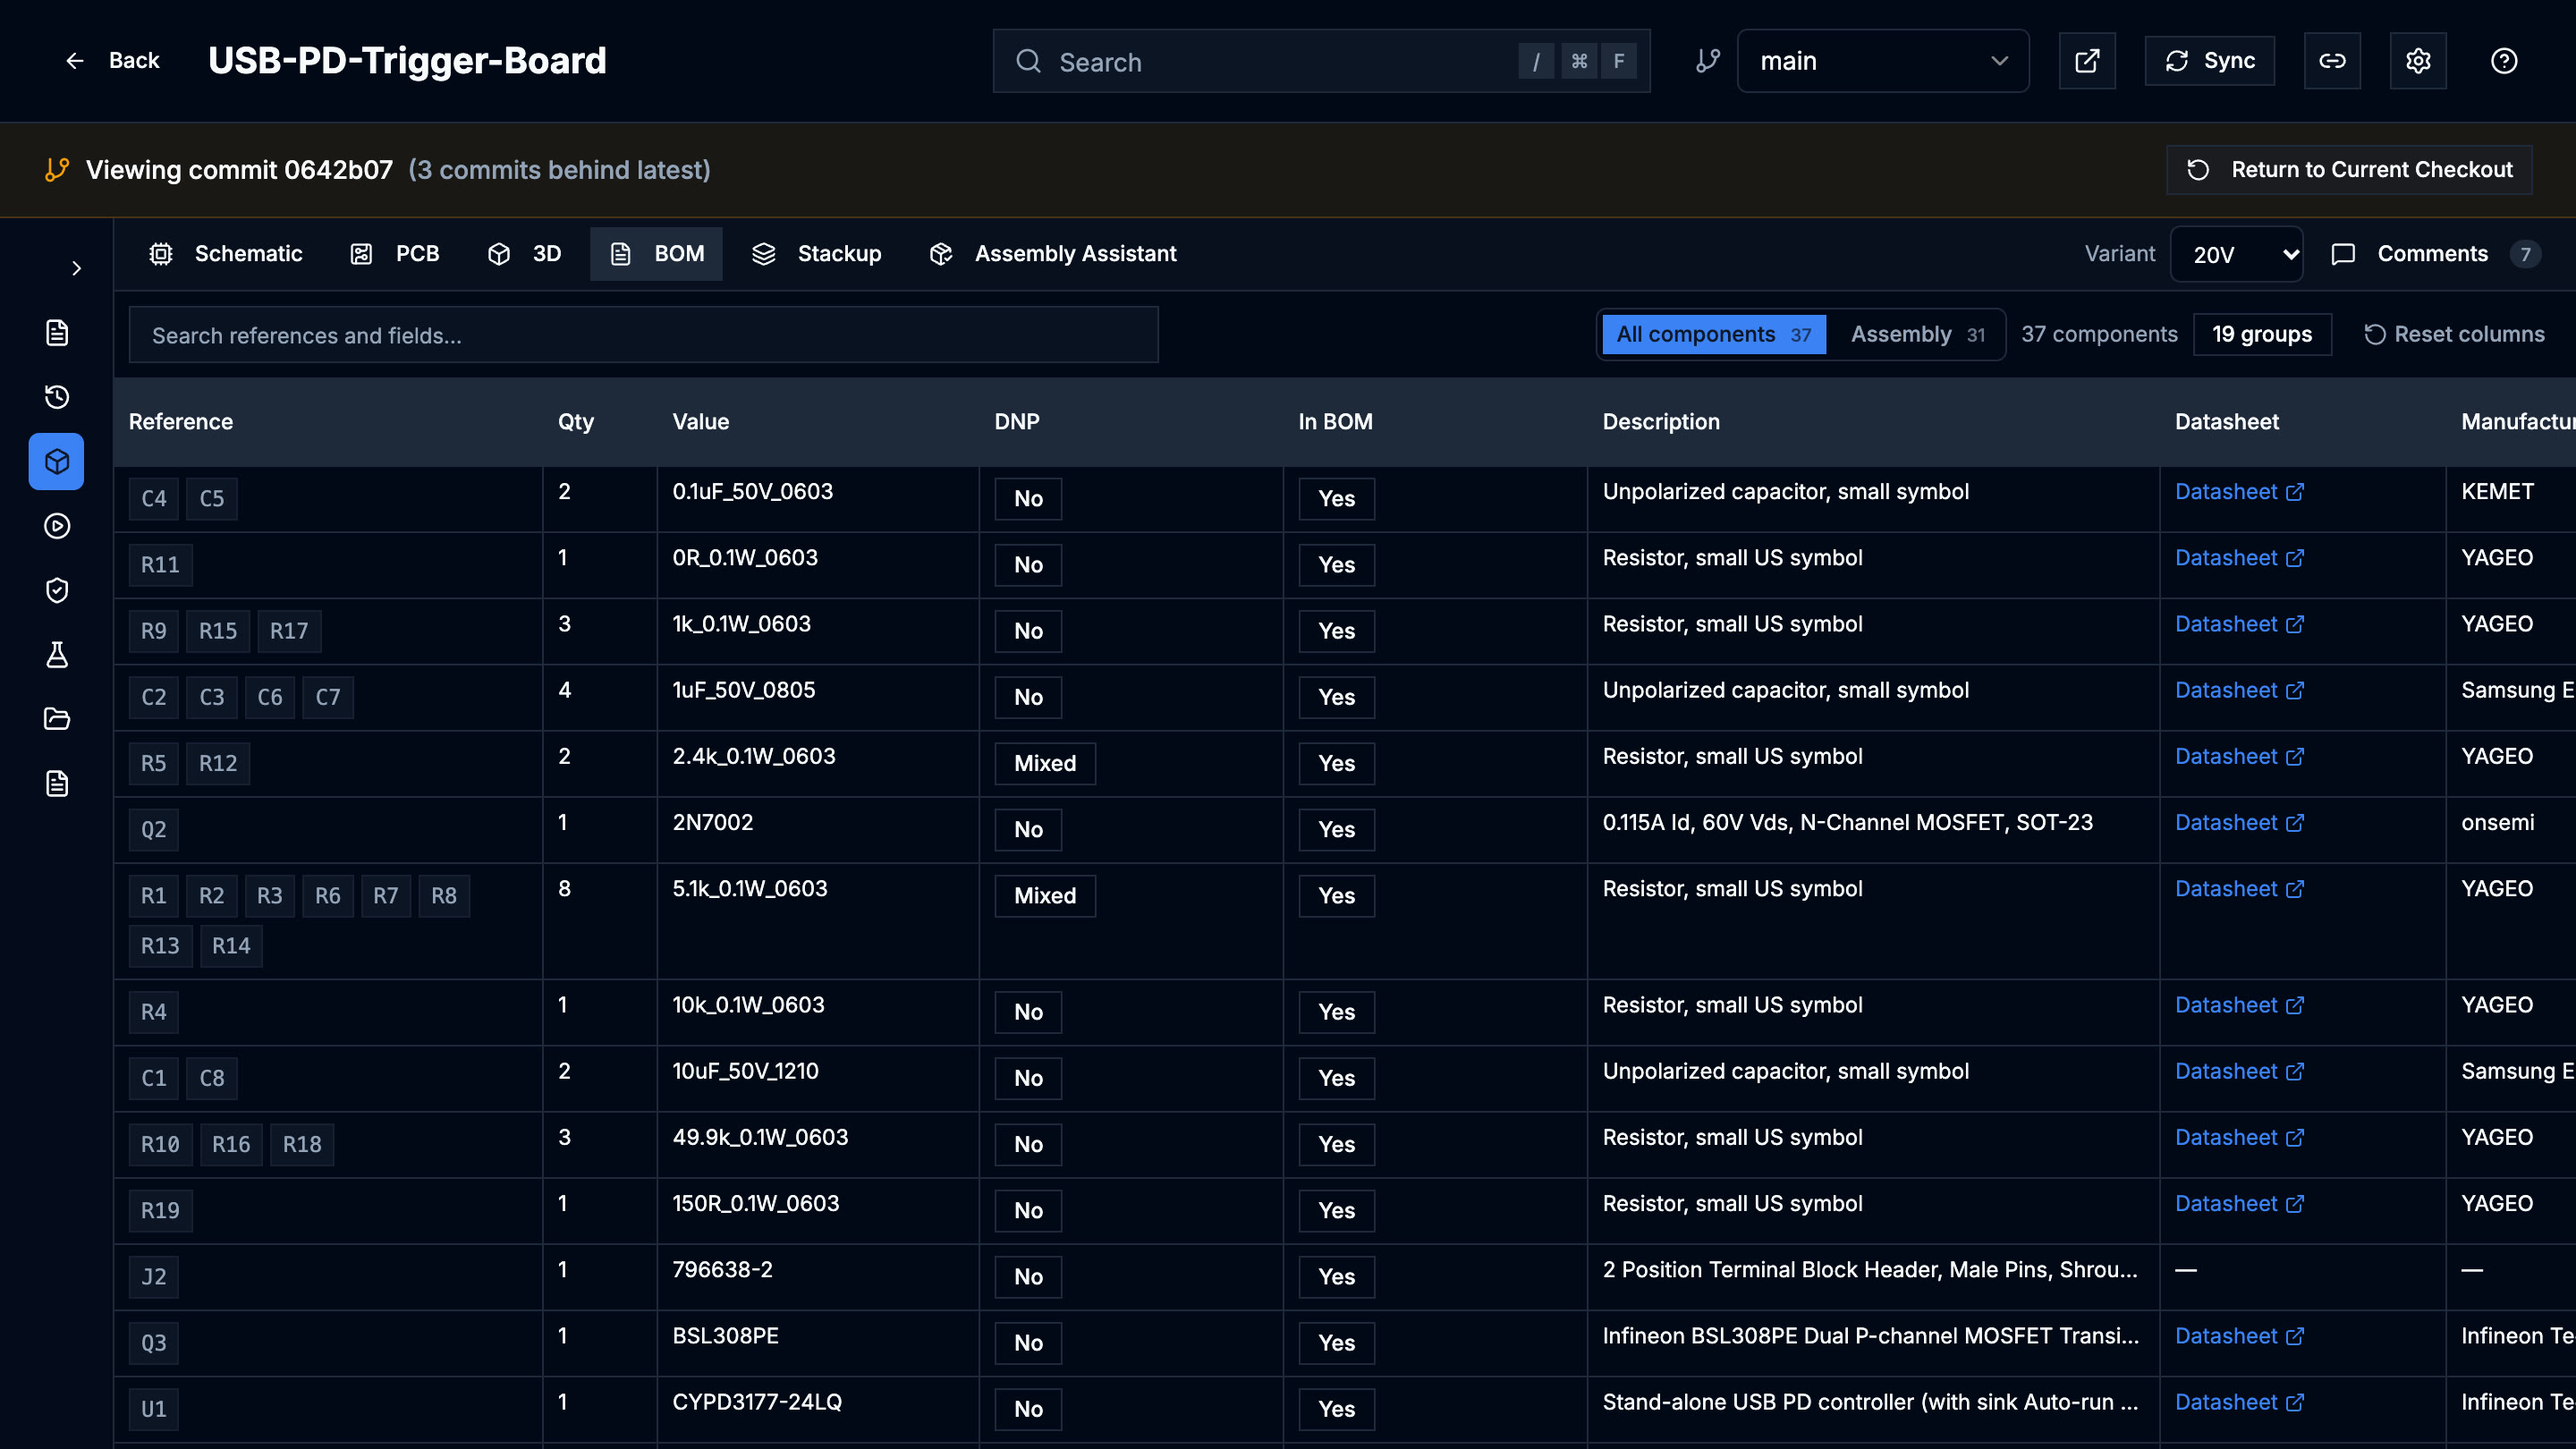
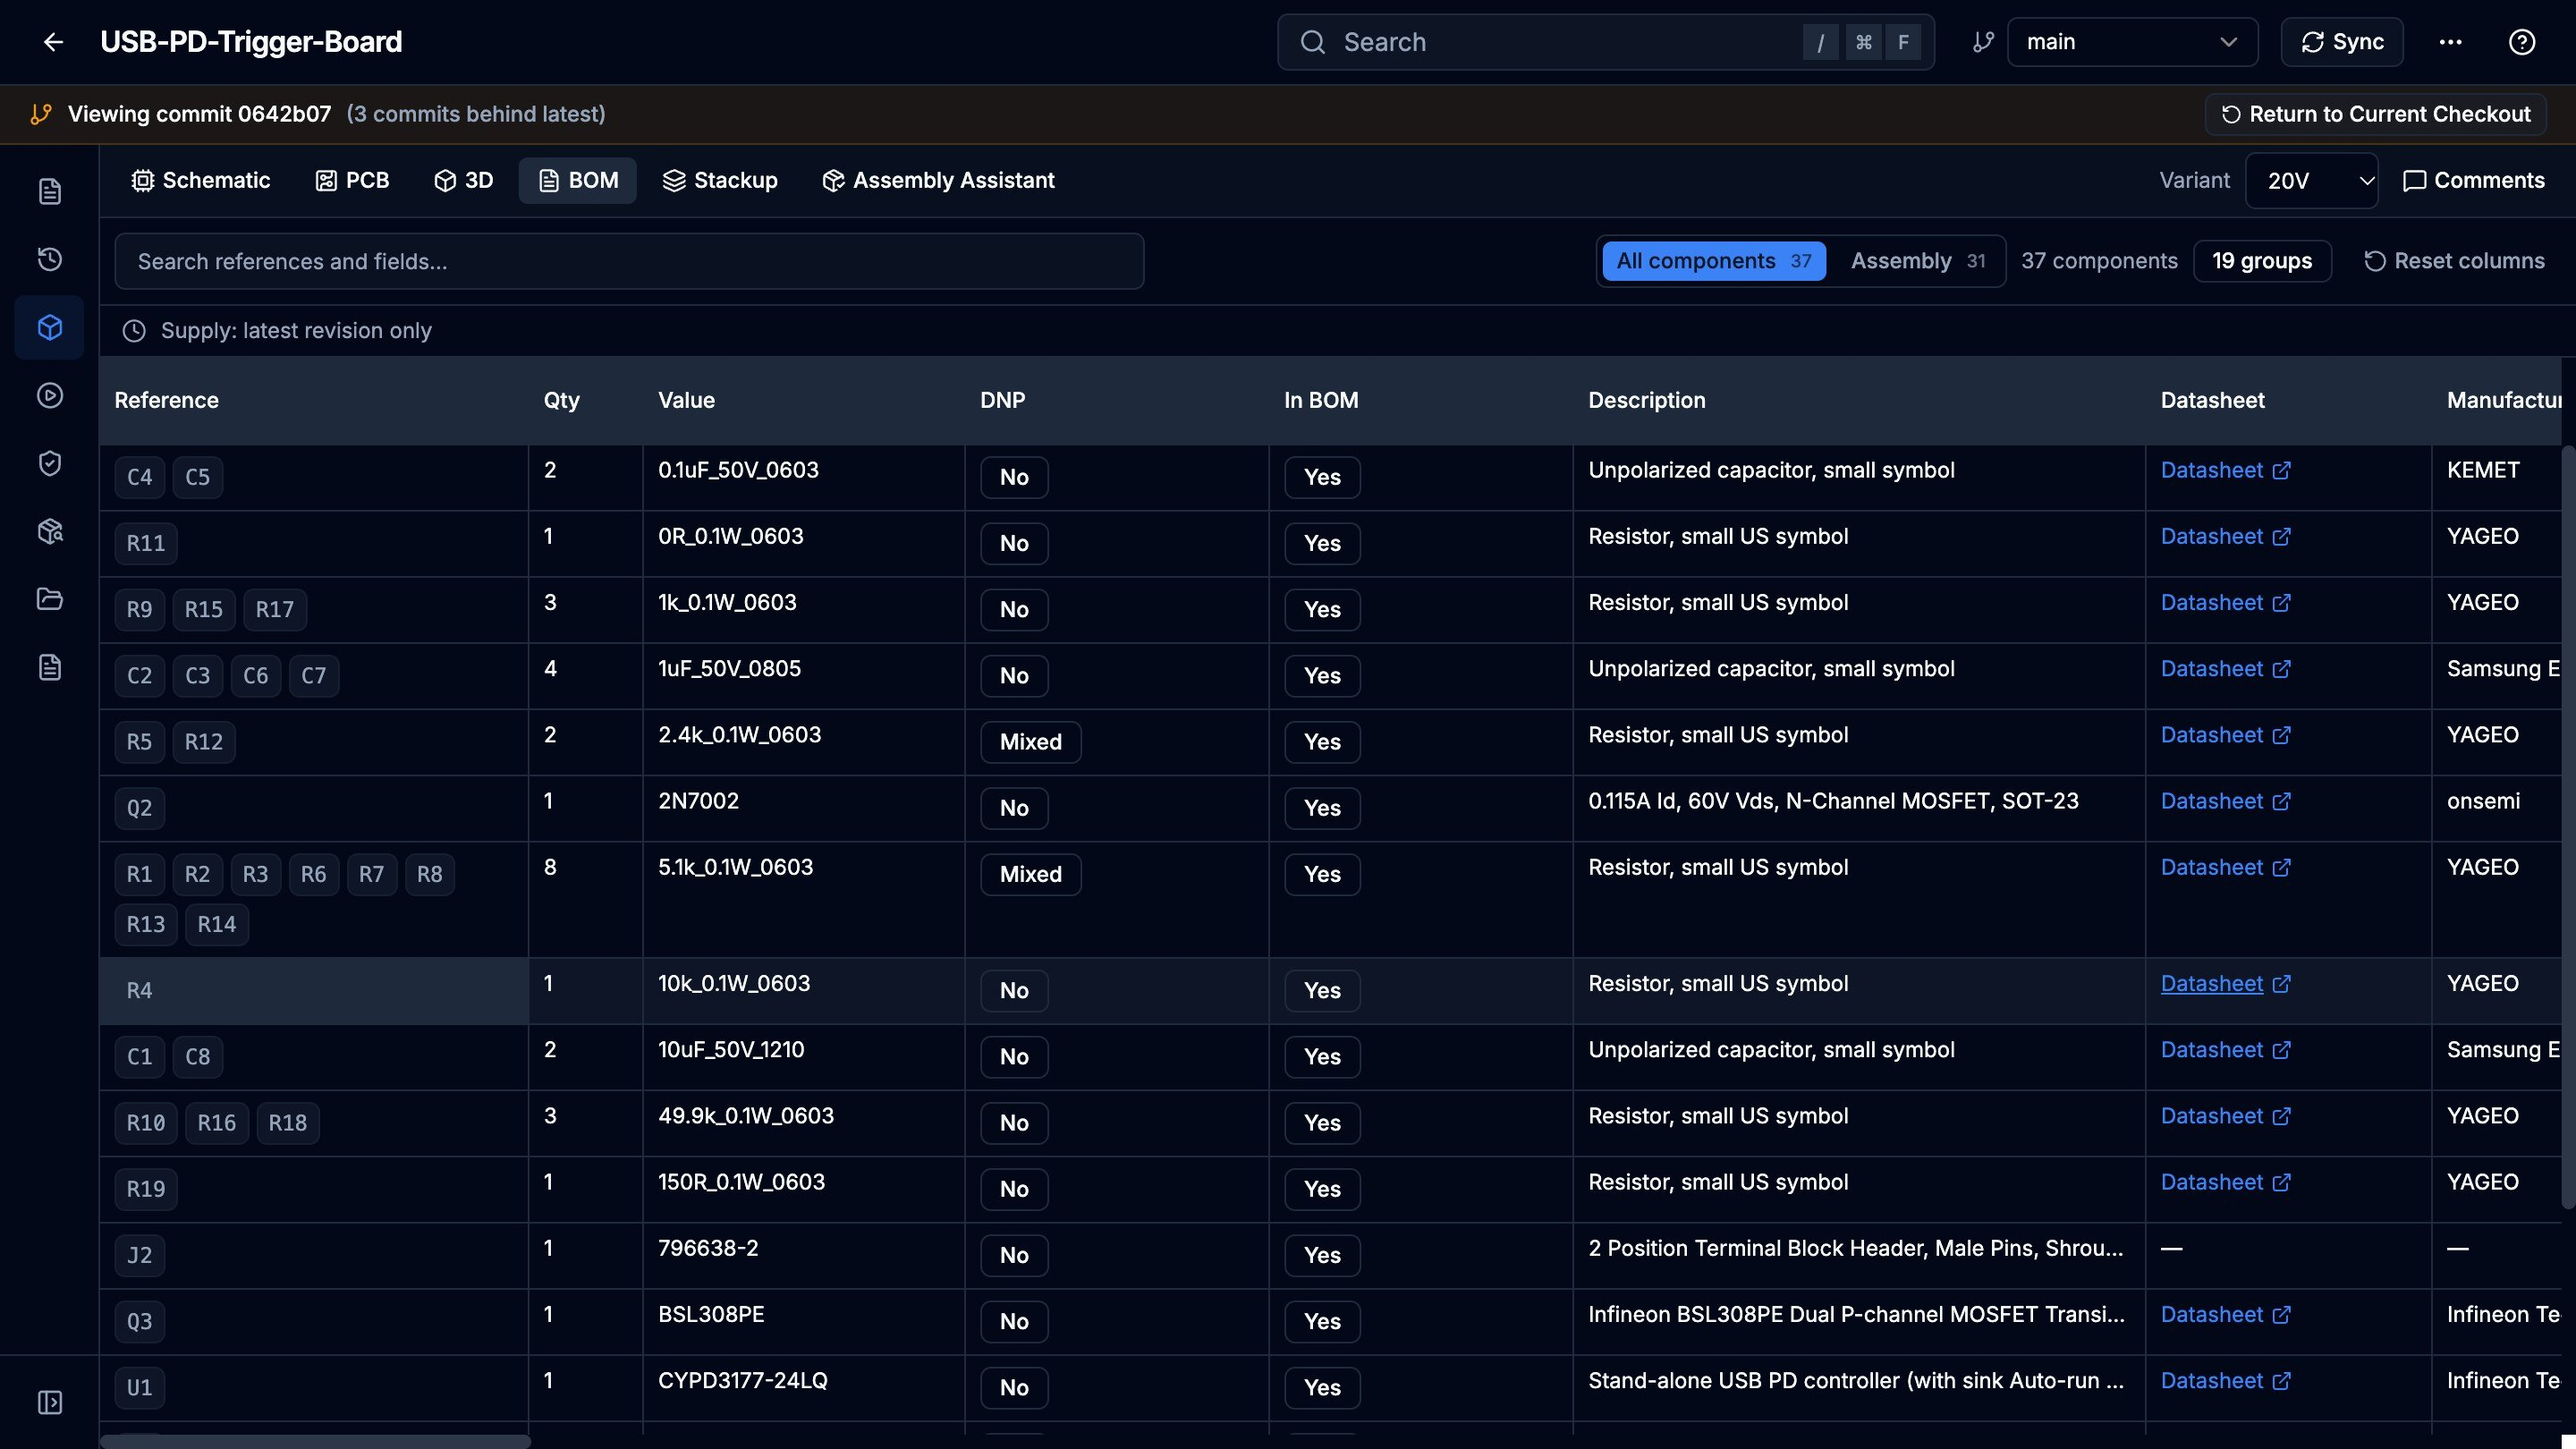
Docs: re-capture project-page screenshots for the visualizer polish
Re-shoot the screenshots that show the project page after the visualizer
polish: the thinner header with the ⋯ menu, the icon rail and the tab bar.
Covers the Visualizers tabs (schematic, PCB, 3D, nets, insets, stackup,
Assembly Assistant, variants), the comments panel, and the Overview,
History, Workflows, Assets Portal and Documentation pages. Sizes are
unchanged.

Add world-view.jpg, the schematic world view on cynthion-hardware with
CONTROL_VBUS_IN and AUX_VBUS_IN chained, to "Trace a net across sheets".
The insets alt text now names R3, the part the chained inset opens on.

diff --git a/website/src/content/docs/use/viewing-designs.md b/website/src/content/docs/use/viewing-designs.md
@@ -161,6 +161,8 @@ first and then press `~`.
   curved lines from the label you started at to each of its counterparts.
   The lines carry the net's name, like a net name on a board trace.
 
+![The world view with two chained nets: an orange line joins the CONTROL_VBUS_IN label on the Power Distribution and Monitoring sheet to its counterpart on the CONTROL Port sheet, and a blue line joins AUX_VBUS_IN to the AUX Port sheet, with the Selection panel showing AUX_VBUS_IN and its three instances](../../../assets/screenshots/world-view.jpg)
+
 In the world view:
 
 - Drag to pan and use the wheel to zoom, as on a single sheet. The sheets are
@@ -193,7 +195,7 @@ On the **PCB** tab:
 
 ## Open insets
 
-![A schematic with two chained insets: a PCB inset of the area around U1's CC1 pin, joined to the pin by a dashed line, and below it a schematic inset of C7 opened from a pad in the PCB inset](../../../assets/screenshots/insets.jpg)
+![A schematic with two chained insets: a PCB inset of the area around U1's CC1 pin, joined to the pin by a dashed line, and beside it a schematic inset of R3 opened from one of R3's pads in the PCB inset](../../../assets/screenshots/insets.jpg)
 
 An inset is a small live view of the other document, opened from the one you
 are reading: hover a schematic pin to see the board around its pad, or hover
